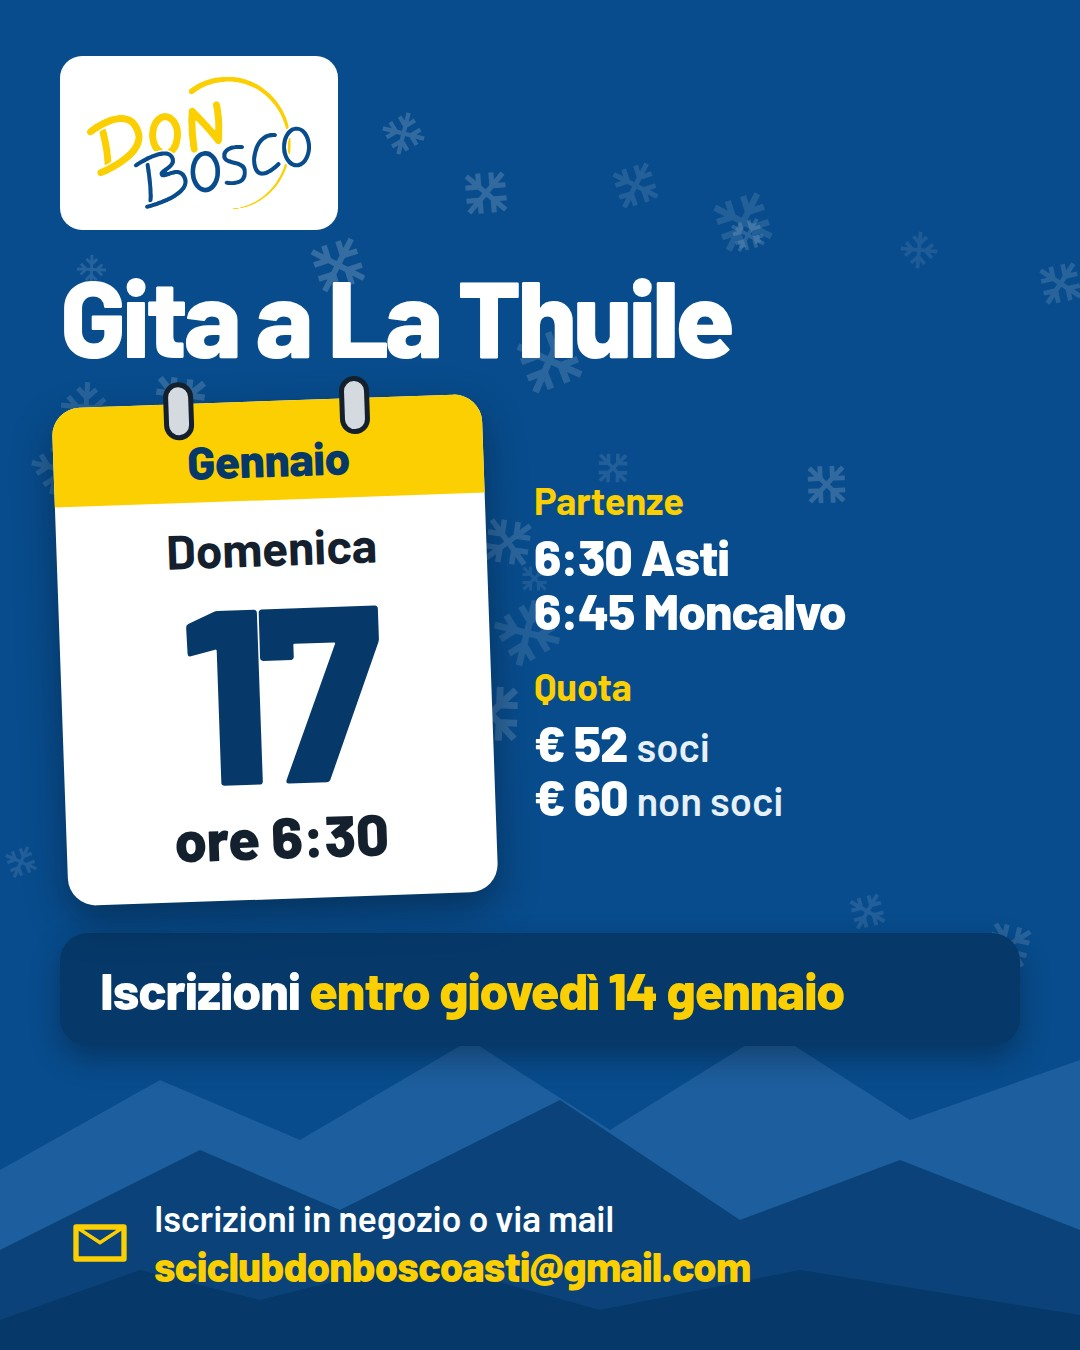
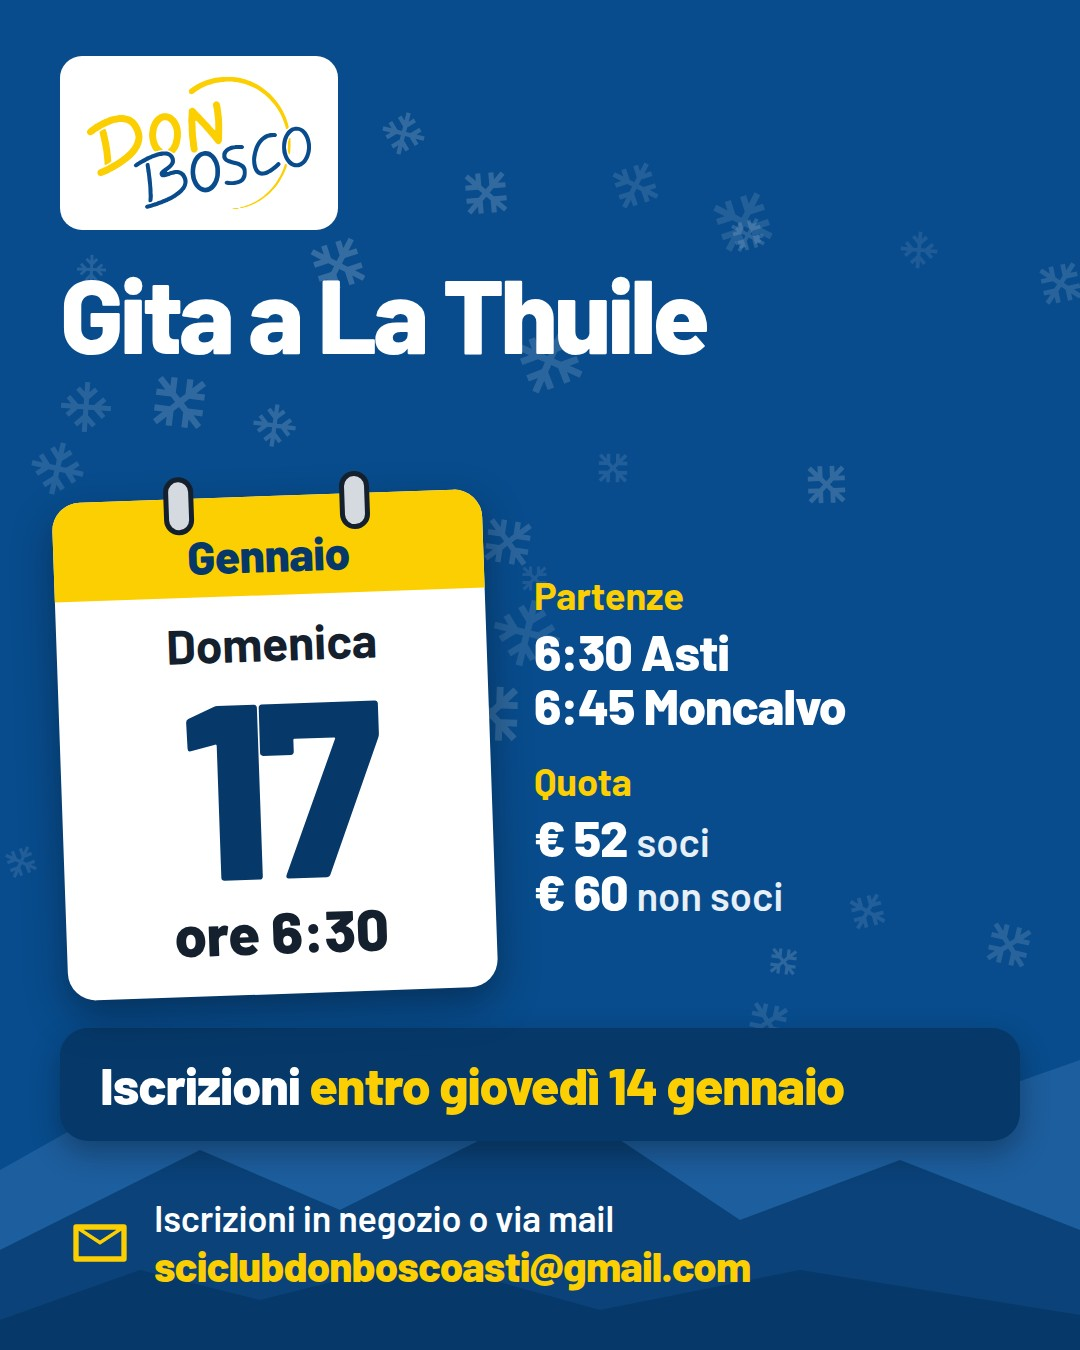
docs(social): titoli sempre su due righe, i dati sotto allineati [skip ci]
In A e B il blocco del titolo è sempre alto due righe anche quando ne basta
una (in A più la riga del sottotitolo, che c'è solo nella cena): i dati
sotto partono alla stessa altezza in tutti i post, 708 px in A e 496 in B.
Il titolo di B ha la stessa misura in tutti i post; nel calendario di A le
righe delle gite sono un po' più strette per starci. I controlli stampano
anche dove parte il blocco sotto il titolo.

Changed region(s): [[0.0306, 0.1867, 0.9472, 0.8711]]

diff --git a/grafica/proposte-post-social/sorgenti/calendario-a.html b/grafica/proposte-post-social/sorgenti/calendario-a.html
@@ -11,9 +11,9 @@
 html { --cat: #084C8D; }
 /* Righe come calRows() di social-templates.js: il giorno nel colore della gita, la meta, il corso. */
 .righe { display: flex; flex-direction: column; }
-.righe div { display: flex; align-items: center; gap: 22px; padding: 9px 0; border-bottom: 2px solid #E4E6EB; }
+.righe div { display: flex; align-items: center; gap: 22px; padding: 6px 0; border-bottom: 2px solid #E4E6EB; }
 .giorno { flex: none; width: 230px; text-align: center; border-radius: 999px; font-size: 36px; font-weight: 800; padding: 6px 0; }
-.meta { font-size: 54px; font-weight: 700; line-height: 1.1; }
+.meta { font-size: 50px; font-weight: 700; line-height: 1.1; }
 /* Il corso senza colore pieno: il giallo dei corsi qui si confonderebbe con la domenica. */
 .corso { margin-left: auto; flex: none; display: flex; align-items: center; gap: 8px; font-size: 34px; font-weight: 800;
   color: var(--blu); border: 3px solid var(--blu); border-radius: 14px; padding: 2px 14px 2px 8px; }

diff --git a/grafica/proposte-post-social/sorgenti/a.css b/grafica/proposte-post-social/sorgenti/a.css
@@ -32,6 +32,9 @@ html { --m: 60px; --scena: 330px; --accento: var(--blu); }
 .testo { flex: 1 1 auto; display: flex; flex-direction: column; justify-content: flex-start; gap: 22px; padding: 34px 56px 12px; }
 h1 { font-size: 104px; font-weight: 800; letter-spacing: -.035em; line-height: .98; }
 h1 small { display: block; font-size: 40px; font-weight: 700; letter-spacing: -.01em; color: var(--testo-soft); margin-top: 12px; line-height: 1.15; }
+/* Il blocco del titolo è sempre alto due righe più quella del sottotitolo, anche
+ * quando sono vuote: i dati sotto partono alla stessa altezza in tutti i post. */
+h1 { min-height: calc(2 * .98 * 104px + 58px); }
 .fatti { display: grid; grid-template-columns: auto 1fr; column-gap: 30px; row-gap: 14px; align-items: baseline; }
 .fatti dt { font-size: 36px; font-weight: 600; color: var(--testo-soft); }
 .fatti dd { font-size: 50px; font-weight: 700; line-height: 1.12; }

diff --git a/grafica/proposte-post-social/sorgenti/corso-a.html b/grafica/proposte-post-social/sorgenti/corso-a.html
@@ -43,6 +43,8 @@ html.story .scena .logo-box { border-top-right-radius: 28px; }
 .testo { flex: 1 1 auto; display: flex; flex-direction: column; justify-content: flex-start;
   gap: calc(22px * var(--k)); padding: calc(34px * var(--k)) 56px calc(16px * var(--k)); }
 h1 { font-size: 104px; font-weight: 800; letter-spacing: -.035em; line-height: .98; }
+/* Come negli altri post di A: titolo su due righe più la riga del sottotitolo. */
+html.post h1 { min-height: calc(2 * .98 * 104px + 58px); }
 .fatti { display: grid; grid-template-columns: auto 1fr; column-gap: 30px; row-gap: calc(16px * var(--k)); align-items: baseline; }
 .fatti dt { font-size: calc(36px * var(--k)); font-weight: 600; color: var(--testo-soft); }
 .fatti dd { font-size: calc(50px * var(--k)); font-weight: 700; line-height: 1.12; }

diff --git a/grafica/proposte-post-social/sorgenti/b.css b/grafica/proposte-post-social/sorgenti/b.css
@@ -12,7 +12,9 @@
 .testa .logo-box { border-radius: 22px; padding: 12px 18px; }
 .testa .logo-box img { height: 150px; }
 
-.titolo { color: #fff; font-size: 108px; font-weight: 800; letter-spacing: -.035em; line-height: .95; }
+/* Il titolo occupa sempre due righe, anche quando ne basta una (il sottotitolo, se
+ * c'è, sta nella seconda): quello che c'è sotto parte alla stessa altezza in tutti i post. */
+.titolo { color: #fff; font-size: 104px; font-weight: 800; letter-spacing: -.035em; line-height: .95; min-height: calc(2 * .95 * 104px); }
 
 .centro { display: flex; gap: 44px; align-items: center; }
 .foglio { flex: none; width: 430px; background: #fff; border-radius: 28px; text-align: center;

diff --git a/grafica/proposte-post-social/sorgenti/comune.js b/grafica/proposte-post-social/sorgenti/comune.js
@@ -39,7 +39,7 @@ if (verifica) document.fonts.ready.then(() => {
   // Dove partono titolo, fascia e testo: fra i post della stessa proposta
   // devono coincidere (il testo lungo può solo scendere più in basso).
   const pos = {};
-  for (const sel of ["h1", ".titolo", ".gancio", ".nastro", ".info", ".fatti", ".righe"]) {
+  for (const sel of ["h1", ".titolo", ".gancio", ".nastro", ".info", ".fatti", ".righe", ".centro", ".mese-intero"]) {
     const el = document.querySelector(sel);
     if (el) pos[sel] = Math.round(el.getBoundingClientRect().top);
   }

diff --git a/grafica/proposte-post-social/sorgenti/corso-b.html b/grafica/proposte-post-social/sorgenti/corso-b.html
@@ -33,6 +33,8 @@ html.story .iscrizioni b { font-size: 46px; }
 .testa .logo-box img { height: calc(150px * var(--k)); }
 
 .titolo { color: #fff; font-size: calc(108px * var(--k)); font-weight: 800; letter-spacing: -.035em; line-height: .95; }
+/* Come negli altri post di B: titolo alto due righe. */
+html.post .titolo { font-size: 104px; min-height: calc(2 * .95 * 104px); }
 
 .centro { display: flex; gap: calc(44px * var(--k)); align-items: center; }
 /* Il foglio: testata verde (il colore dei corsi), due anelli, il giorno grande. */

diff --git a/grafica/proposte-post-social/sorgenti/calendario-b.html b/grafica/proposte-post-social/sorgenti/calendario-b.html
@@ -10,7 +10,6 @@
      del mese. Senza la griglia dei giorni, che ripeteva le stesse date. -->
 <style>
 html { --cat: #FCCF02; --cat-ink: #06396A; }
-.titolo { font-size: 96px; }
 .mese-intero { background: #fff; border-radius: 28px; box-shadow: 0 16px 40px rgba(0,0,0,.35); position: relative; padding-bottom: 18px; }
 .mese-intero .mese { background: var(--cat); color: var(--cat-ink); font-size: 50px; font-weight: 800; text-align: center;
   border-radius: 28px 28px 0 0; padding: 26px 0 12px; }

diff --git a/grafica/proposte-post-social/sorgenti/evento-b.html b/grafica/proposte-post-social/sorgenti/evento-b.html
@@ -9,7 +9,6 @@
 <!-- Evento: testata gialla e numero blu, come la gita (per ora solo giallo e blu). -->
 <style>
 html { --cat: #FCCF02; --cat-ink: #06396A; --cat-txt: #06396A; }
-.titolo { font-size: 100px; }
 .titolo small { display: block; font-size: 40px; font-weight: 700; letter-spacing: -.01em; color: var(--giallo); margin-top: 12px; line-height: 1.15; }
 .foglio { width: 400px; }
 .foglio .num { font-size: 230px; }

diff --git a/grafica/proposte-post-social/README.md b/grafica/proposte-post-social/README.md
@@ -23,7 +23,9 @@ hanno dati inventati.
 
 - **Il testo non si sposta:** in ogni proposta titolo, fascia e testo partono
   sempre dallo stesso punto, in tutti i post; un testo più lungo scende più in
-  basso. In A la foto (o il disegno) in alto è alta uguale per tutti; in C
+  basso. Il titolo occupa sempre due righe anche quando ne basta una (in A
+  più la riga del sottotitolo, anche vuota), così i dati sotto partono alla
+  stessa altezza. In A la foto (o il disegno) in alto è alta uguale per tutti; in C
   gancio e disegno hanno altezza fissa, così la fascia centrale sta sempre lì
   (tranne nel calendario, che non ha disegno). `./sorgenti/rendi.sh verifica`
   stampa le coordinate per controllarlo.
